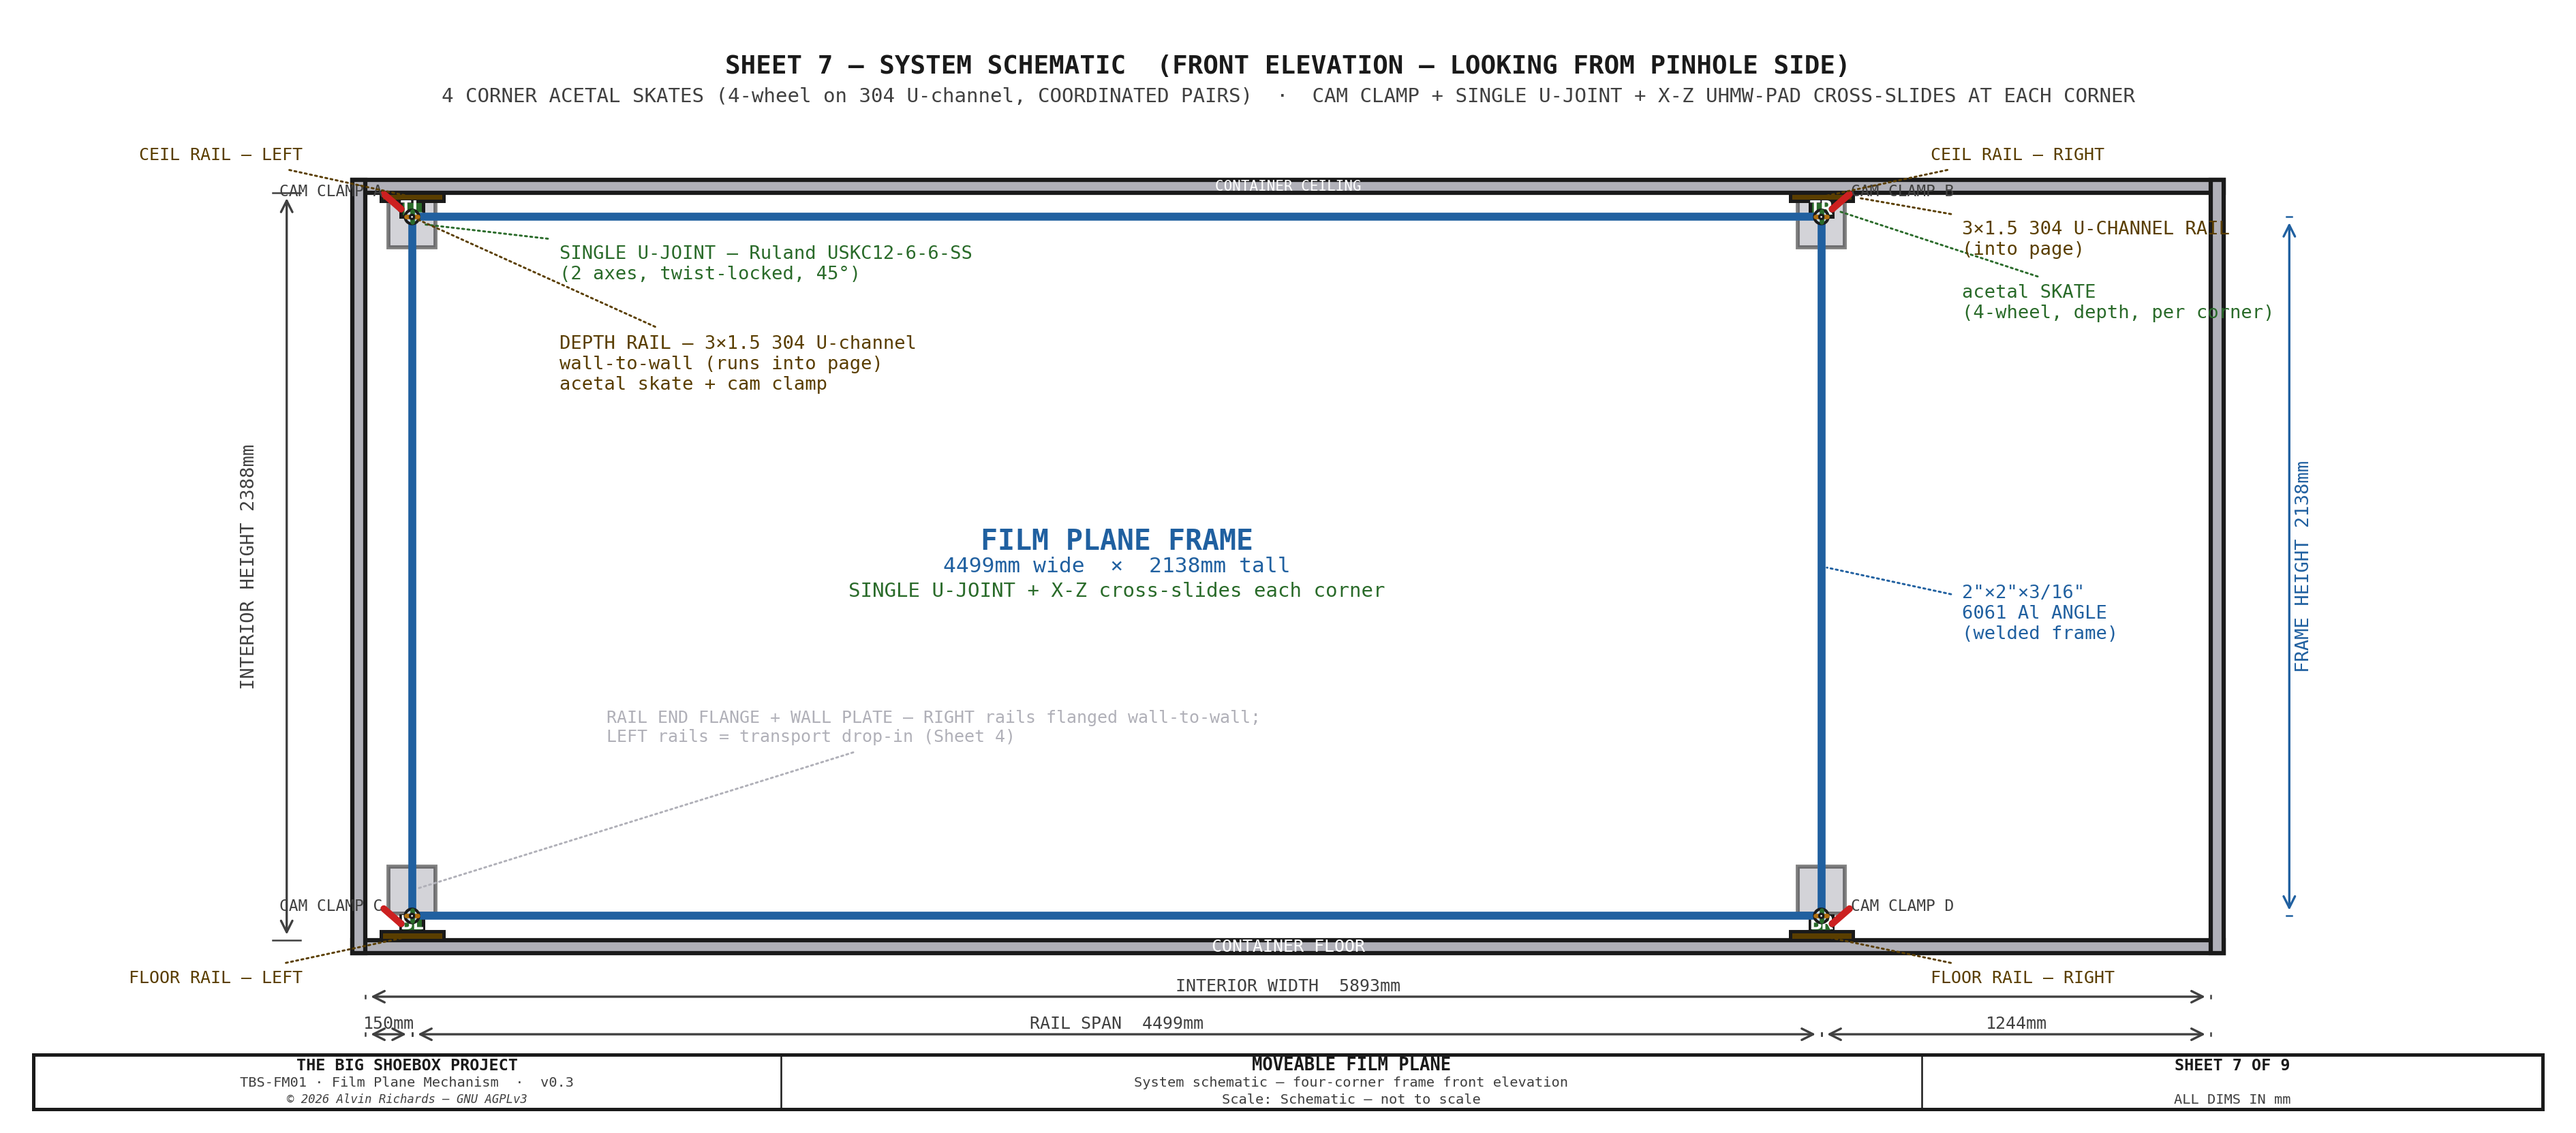
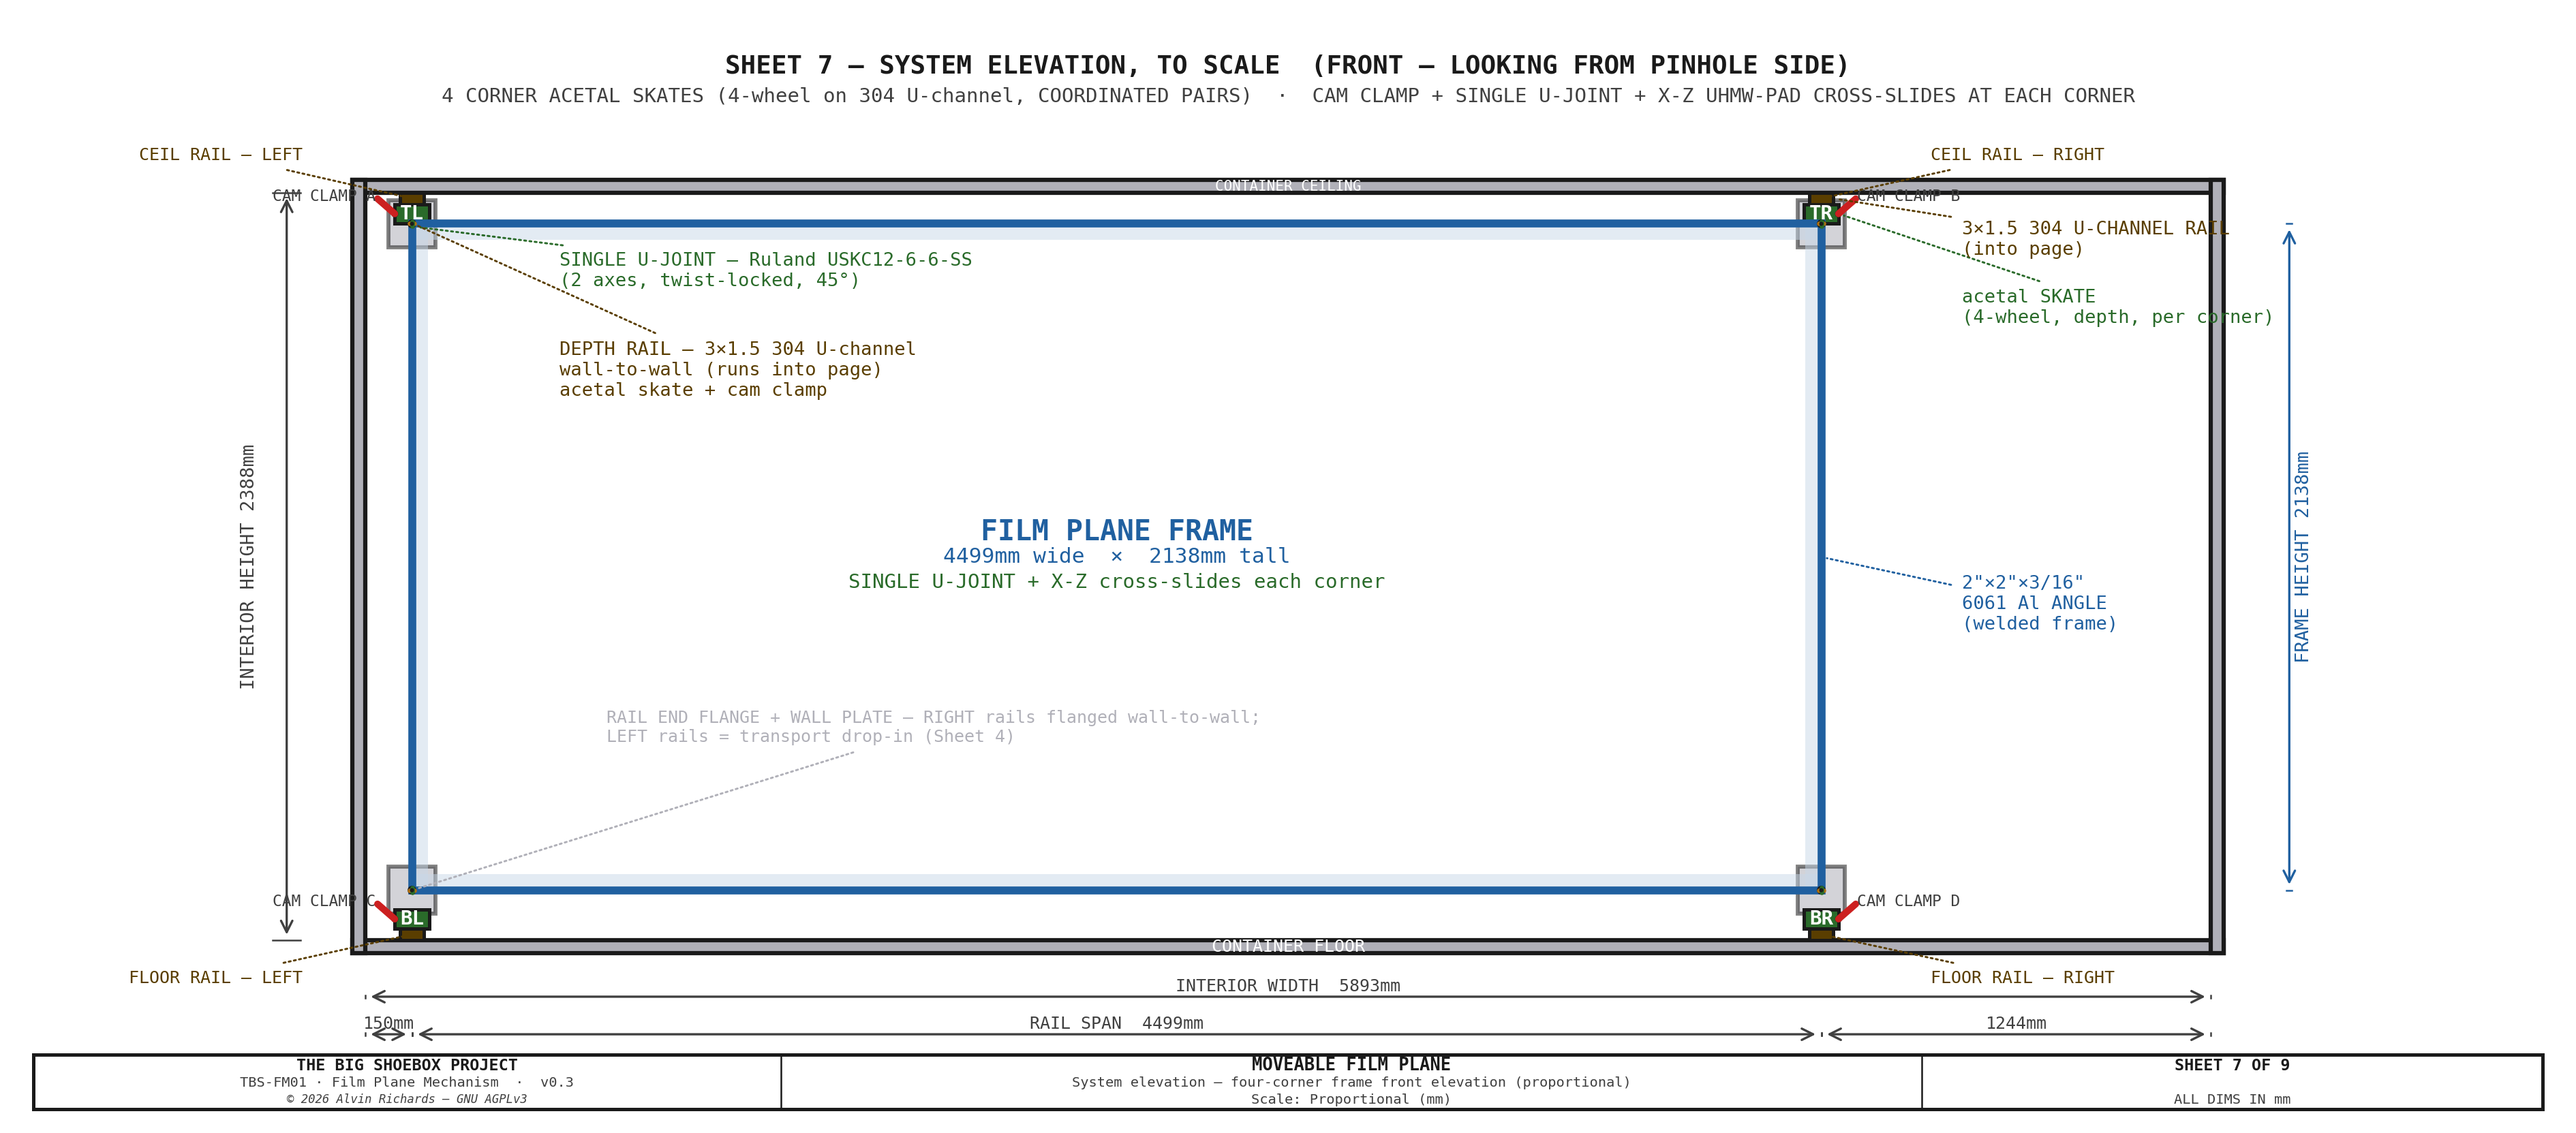
Sheets 3/4 relabel + Sheet 7 to true scale
- Sheets 3 & 4 scale note 'DIMS IN mm' → 'Proportional (mm)' (they were already
  drawn to scale; the label only stated units, not scale).
- Sheet 7 converted from schematic to a true proportional elevation: frame drawn at
  its real Z extent (RAIL_OFF_BOT 160 → H−RAIL_OFF 2288) instead of faked from visual
  offsets; rail (76×38 U-channel end), skate carriage, U-joint (Ø19) and frame angle
  (50.8) all drawn to size; title/subtitle/scale note updated (no longer 'schematic').

diff --git a/src/generators/generate_film_plane_mechanism.py b/src/generators/generate_film_plane_mechanism.py
@@ -98,7 +98,7 @@ RAIL_W   = 60           # rail width in plan view
 
 # ── LEFT-rail transport drop-in (Sheet 4). These MIRROR generate_corner_gimbal_model.py; promote
 # both to tbs_constants at the FP_W/FP_H cascade so 2D + 3D single-source them (see TODO). ──
-from tbs_constants import PIVOT_YD, PIVOT_POST_OD, RAIL_OFF_BOT, WALKWAY_H
+from tbs_constants import PIVOT_YD, PIVOT_POST_OD, RAIL_OFF, RAIL_OFF_BOT, WALKWAY_H
 LEFT_CUT_YD = 2090      # cut Yd on the X150 rail = the panel-swing-envelope edge; stub = C_WID−2090 = 272mm
 SPLICE_YD   = 260       # length splice at the PINHOLE end (removable = 6 ft stock + 260mm)
 
@@ -981,7 +981,7 @@ def sheet3():
     title_block(ax_tb, "SHEET 3 OF 9",
                 drawing_title="MOVEABLE FILM PLANE",
                 subtitle="Corner carriage detail — acetal skate on 3×1.5 304 U-channel + cross-slides + U-joint + stub clamp",
-                scale_note="DIMS IN mm",
+                scale_note="Proportional (mm)",
                 doc_id="TBS-FM01 · Film Plane Mechanism",
                 height=0.75)
 
@@ -1164,7 +1164,7 @@ def sheet4():
     ax_tb.axis("off")
     title_block(ax_tb, "SHEET 4 OF 9", drawing_title="MOVEABLE FILM PLANE",
                 subtitle="Rail mounting & transport drop-in — left split (stub + removable + web-back bridge) · right flanged wall-to-wall",
-                scale_note="DIMS IN mm",
+                scale_note="Proportional (mm)",
                 doc_id="TBS-FM01 · Film Plane Mechanism",
                 height=0.75)
 
@@ -1603,7 +1603,7 @@ def sheet6():
 
 
 # ═══════════════════════════════════════════════════════════════════════════════
-# SHEET 7 — SYSTEM SCHEMATIC: Four-corner frame front elevation
+# SHEET 7 — SYSTEM ELEVATION (to scale): Four-corner frame front elevation
 #
 # View: looking at the film plane from the pinhole side (interior elevation).
 # Shows ceiling/floor depth-rail pairs (3×1.5 304 U-channel), four corner acetal-skate
@@ -1616,7 +1616,8 @@ def sheet7():
     ax.set_facecolor(BG)
     ax.axis("off")
 
-    # Schematic coordinates (mm) — front elevation
+    # True-scale coordinates (mm) — front elevation, aspect equal (container, rails,
+    # frame all at real mm; corner mechanisms drawn to size — small at this scale)
     # X = container width (0=left wall, L=5893=right wall)
     # Z = height (0=floor, H=2388=ceiling)
     FW = L       # frame width extent for drawing
@@ -1651,8 +1652,10 @@ def sheet7():
     ax.add_patch(Rectangle((0, 0), FW, FH, fc=GRID, ec="none", zorder=2))
 
     # ── Rail positions (X coords in this elevation = RAIL_X_L, RAIL_X_R) ─────
-    rail_len = 200    # schematic rail length along optical axis (shown as width here)
-    rail_h = 28       # rail profile height
+    # 3×1.5" 304 U-channel seen END-ON (it runs into the page along the optical axis):
+    # its cross-section is 76mm (3") wide × 38mm (1.5") tall — drawn to scale.
+    rail_len = 76     # rail cross-section width (3")
+    rail_h = 38       # rail cross-section height (1.5")
 
     # Ceiling rails
     for rx, label in [(RAIL_X_L, "LEFT"), (RAIL_X_R, "RIGHT")]:
@@ -1676,8 +1679,8 @@ def sheet7():
     # Each corner = a 4-wheel acetal skate (the long depth rail runs into
     # the page, so it reads end-on as a block) locked by a hand cam clamp. No
     # leadscrews, no handwheels — push to position, flip the clamp to lock.
-    carr_w = 70
-    carr_h = 50
+    carr_w = 110      # acetal-skate carriage plate width (to scale)
+    carr_h = 60       # skate carriage height (to scale — fits the true rail↔frame gap)
     x_mid = (RAIL_X_L + RAIL_X_R) / 2
 
     corners = [
@@ -1710,9 +1713,9 @@ def sheet7():
     # ── Film plane frame ──────────────────────────────────────────────────────
     fp_left = RAIL_X_L
     fp_right = RAIL_X_R
-    fp_bot = rail_h + carr_h
-    fp_top = FH - rail_h - carr_h
-    frame_t = 12  # frame member thickness (visual)
+    fp_bot = RAIL_OFF_BOT          # true frame bottom Z (floor offset, 160mm)
+    fp_top = FH - RAIL_OFF         # true frame top Z (ceiling offset, 2288mm)
+    frame_t = FP_ANGLE_LEG         # 2×2 angle leg = 50.8mm (to scale)
 
     # Frame outline (thick rectangle)
     frame_style = dict(fc="none", ec=C_FLAT, lw=2.8, zorder=8, linestyle="-")
@@ -1743,7 +1746,7 @@ def sheet7():
 
     # ── Single U-joint at each corner of the frame ────────────────────────────
     # Ruland USKC12-6-6-SS: light-blue body, two crossed pins (tilt + swing, twist-locked).
-    joint_r = 22
+    joint_r = 9.5     # Ø19 U-joint (to scale — small at this system scale; detail on Sheets 8-9)
     joint_positions = [
         (fp_left, fp_top),    # TL
         (fp_right, fp_top),   # TR
@@ -1834,7 +1837,7 @@ def sheet7():
 
     # ── Title text ────────────────────────────────────────────────────────────
     ax.text(FW / 2, FH + 380,
-            "SHEET 7 — SYSTEM SCHEMATIC  (FRONT ELEVATION — LOOKING FROM PINHOLE SIDE)",
+            "SHEET 7 — SYSTEM ELEVATION, TO SCALE  (FRONT — LOOKING FROM PINHOLE SIDE)",
             color=WHITE, fontsize=9, ha="center", fontweight="bold", **FONT)
     ax.text(FW / 2, FH + 290,
             "4 CORNER ACETAL SKATES (4-wheel on 304 U-channel, COORDINATED PAIRS)  ·  CAM CLAMP + SINGLE U-JOINT + X-Z UHMW-PAD CROSS-SLIDES AT EACH CORNER",
@@ -1843,8 +1846,8 @@ def sheet7():
     # ── Title block ───────────────────────────────────────────────────────────
     title_block(ax, "SHEET 7 OF 9",
                 drawing_title="MOVEABLE FILM PLANE",
-                subtitle="System schematic — four-corner frame front elevation",
-                scale_note="Schematic — not to scale",
+                subtitle="System elevation — four-corner frame front elevation (proportional)",
+                scale_note="Proportional (mm)",
                 doc_id="TBS-FM01 · Film Plane Mechanism",
                 height=0.05)
 
